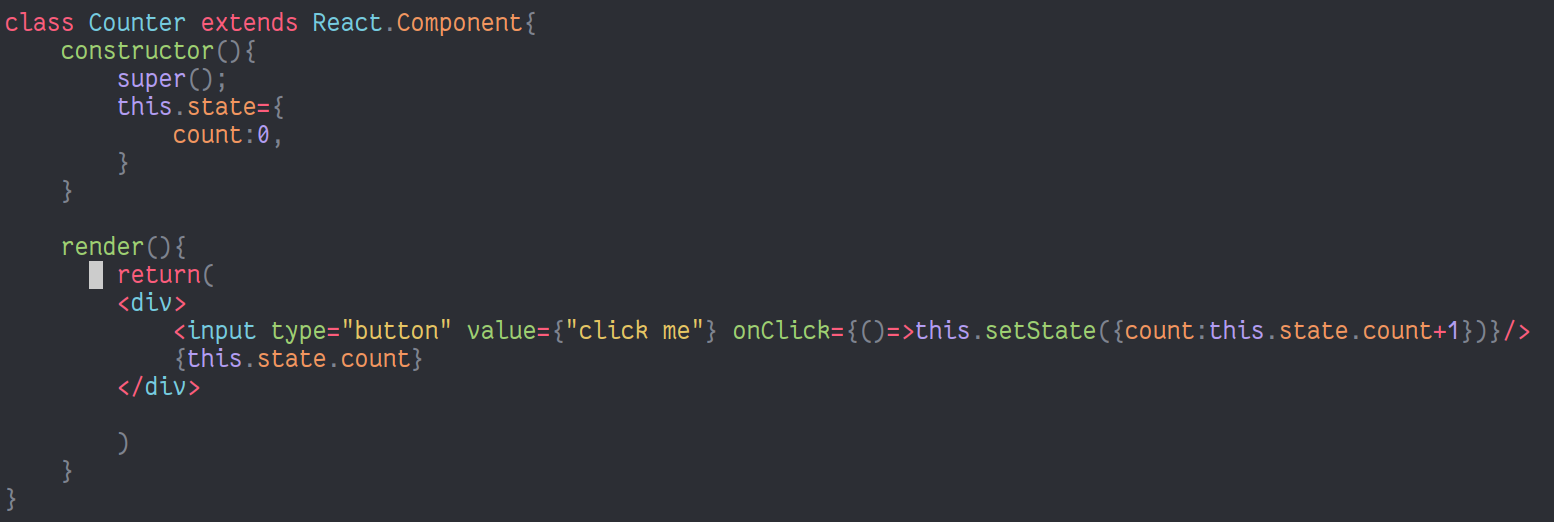
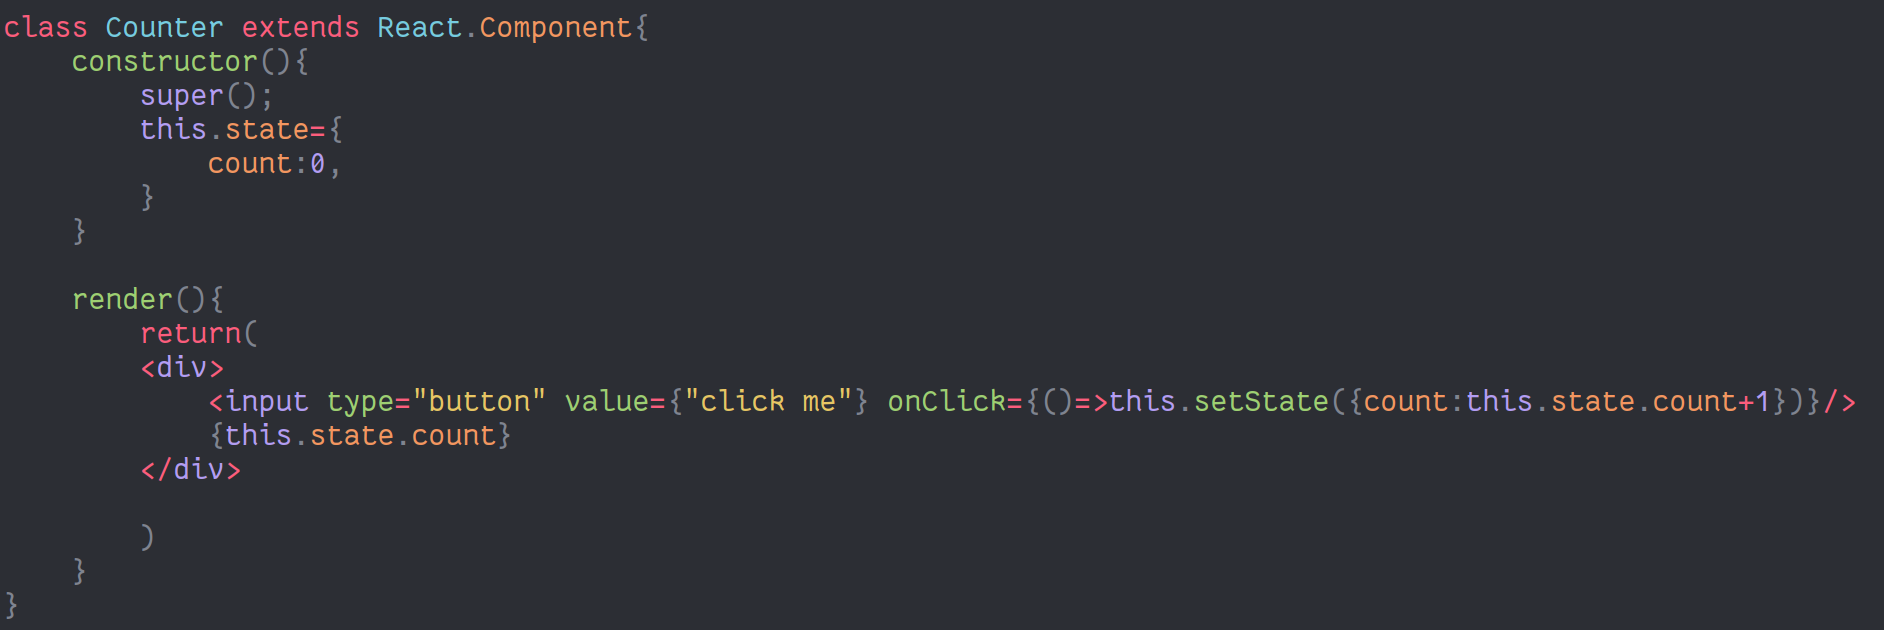
random stuff from random days

diff --git a/src/op/meteor.tex b/src/op/meteor.tex
@@ -21,10 +21,10 @@
 
 
 MeteorJS on avoimeen lähdekoodiin perustuva full-stack JavaScript web-framework, joka on 
-suunniteltu nopeaan käyttöönottoon ja kehittämiseen eri laitteille \labciteend{meteor24b}
+suunniteltu nopeaan käyttöönottoon ja kehittämiseen eri laitteille\labciteend{meteor24b}
 Meteor mahdollistaa isomorphiseen koodin kirjoittamisen, eli koodiin, joka on samanlaista palvelimella kuten selaimella\labciteend{Kuster23} % en tiedä onko hyvä src mutta on totta joten pitäis löytää jokue
 % outo aloittaa taas meteorilla
-Meteor ei määritä käytettyä front-end teknologiaa vaan sillä on integraatio moneen yleiseen front-end framework:kiin, kuten Vue, React, Svelte tai Angular \labciteend{meteor24a}{}
+Meteor ei määritä käytettyä front-end teknologiaa vaan sillä on integraatio moneen yleiseen front-end framework:kiin, kuten Vue, React, Svelte tai Angular\labciteend{meteor24a}{}
 Tämä antaa lisä joustoa Meteorille sillä se antaa mahdollisuuden monelle sovelluskehittäjälle, joilla ei ole kokemusta tietystä front-end teknologiasta.\\
 \medskip
 
@@ -48,7 +48,7 @@ Lisäksi Meteor tukee monta ominaisuutta \labcite{meteor24a}:
 Meteorin nopea käyttöönotto on osa johtuen sen paketti järjestelmästä ja valmiiksi paketoiduista paketeista, kuten Meteorin käyttäjät paketti. 
 Käyttäjä paketin avusta kehittäjä voi nopeasti luoda todennus (eng authentication) järjestelmän,
 joka antaa helpon integraation muiden todennus palvelujen kanssa kuten Facebook, GitHub, Google ym.
-Käyttäjä paketti on myös integroitu muihin Meteorin ominaisuuksiin kuten metodeihin. \labcite{meteor24c}
+Käyttäjä paketti on myös integroitu muihin Meteorin ominaisuuksiin kuten metodeihin.\labcite{meteor24c}
 
 
 
@@ -60,7 +60,7 @@ Käyttäjä paketti on myös integroitu muihin Meteorin ominaisuuksiin kuten met
 % mahdollinen kappale rike kolmannessa kappaleessa
 
 
-Meteor käyttää Etäkäsittelykutsu (eng Remote procedure call) rajapintaa perinteisen RESTful rajapinnan sijasta \labciteend{meteor24a}
+Meteor käyttää Etäkäsittelykutsu (eng Remote procedure call) rajapintaa perinteisen RESTful rajapinnan sijasta\labciteend{meteor24a}
 Etäkäsittelykutsussa mallissa asiakasohjelma lähettää palvelinohjelmalle kutsuviestin.
 Palvelinohjelma käsittelee kutsuviestin ja suorittaa halutun toiminnon ja palauttaa vastaviestin asiakasohjelmalle.\labcite{ibm23}
 Meteorin metodit ominaisuus toimii Etäkäsittelykutsu rajapintana selaimen ja palvelimen välillä. 
@@ -100,9 +100,9 @@ Jos käyttäjä on kirjautunut sisään, metodi tulostaa argumentit objektin.
 
 
 Meteor ylläpitää omaa paketointi ekosysteemiään, 
-nämä paketit ovat isomorphisia, eli ne toimivat palvelimella ja selaimella \labciteend{pranav17}{}
+nämä paketit ovat isomorphisia, eli ne toimivat palvelimella ja selaimella\labciteend{pranav17}{}
 Meteorilla on ensimmäisen osapuolen paketteja, joita itse Meteor tiimi ylläpitää ja kolmannen osapuolen paketteja,
-joita yhteisö ylläpitää. Nämä kolmannen osapuolen paketit voi ladata Meteorin paketti palvelimelle Athmosphere:lle. \labcite{sanders15}
+joita yhteisö ylläpitää. Nämä kolmannen osapuolen paketit voi ladata Meteorin paketti palvelimelle Athmosphere:lle.\labcite{sanders15}
 \medskip
 
 

diff --git a/src/op/react.tex b/src/op/react.tex
@@ -179,7 +179,7 @@ kuvassa \nextnextImageCount {} on sama laskukomponentti kuin kuva \nextImageCoun
 
 \bigskip
 \includegraphics[width=15cm]{src/public/oppar/function_component.png}\\
-Kuva \getImgCount{}. kuvakaappaus React komponentista(KORJAA INDENTAATIO)
+Kuva \getImgCount{}. React funktiokomponentti
 \medskip
 
 Kuvaassa \theimgCounter{} määritetään funktiokomponentti, jonka nimeksi on annettu laskija, joka seuraa kuinka monta kertaa nappia on painettu.
@@ -193,7 +193,7 @@ tätä käyttäen komponentti pystyy säilyttämään dataa ja päivittämään 
 
 \bigskip
 \includegraphics[width=15cm]{src/public/oppar/class_.png}\\
-Kuva \getImgCount{}. kuvakaappaus React luokkakomponentista(POISTA CURSOR KUVASTA)
+Kuva \getImgCount{}. React luokkakomponentti
 \medskip
 
 

diff --git a/src/op/feature.tex b/src/op/feature.tex
@@ -16,7 +16,7 @@ ja siitä Käyttäjä pystyy valitsemaan miltä päivältä arvo on otettu ja mi
 
 \bigskip
 \includegraphics[width =15cm]{src/public/progressiosingle.png}\\
-Kuva \getImgCount {}. Progressio sivu (tarvitsee paremman kuvan)
+Kuva \getImgCount {}. Progressio sivun käyttöliittymä 
 \medskip
 
 
